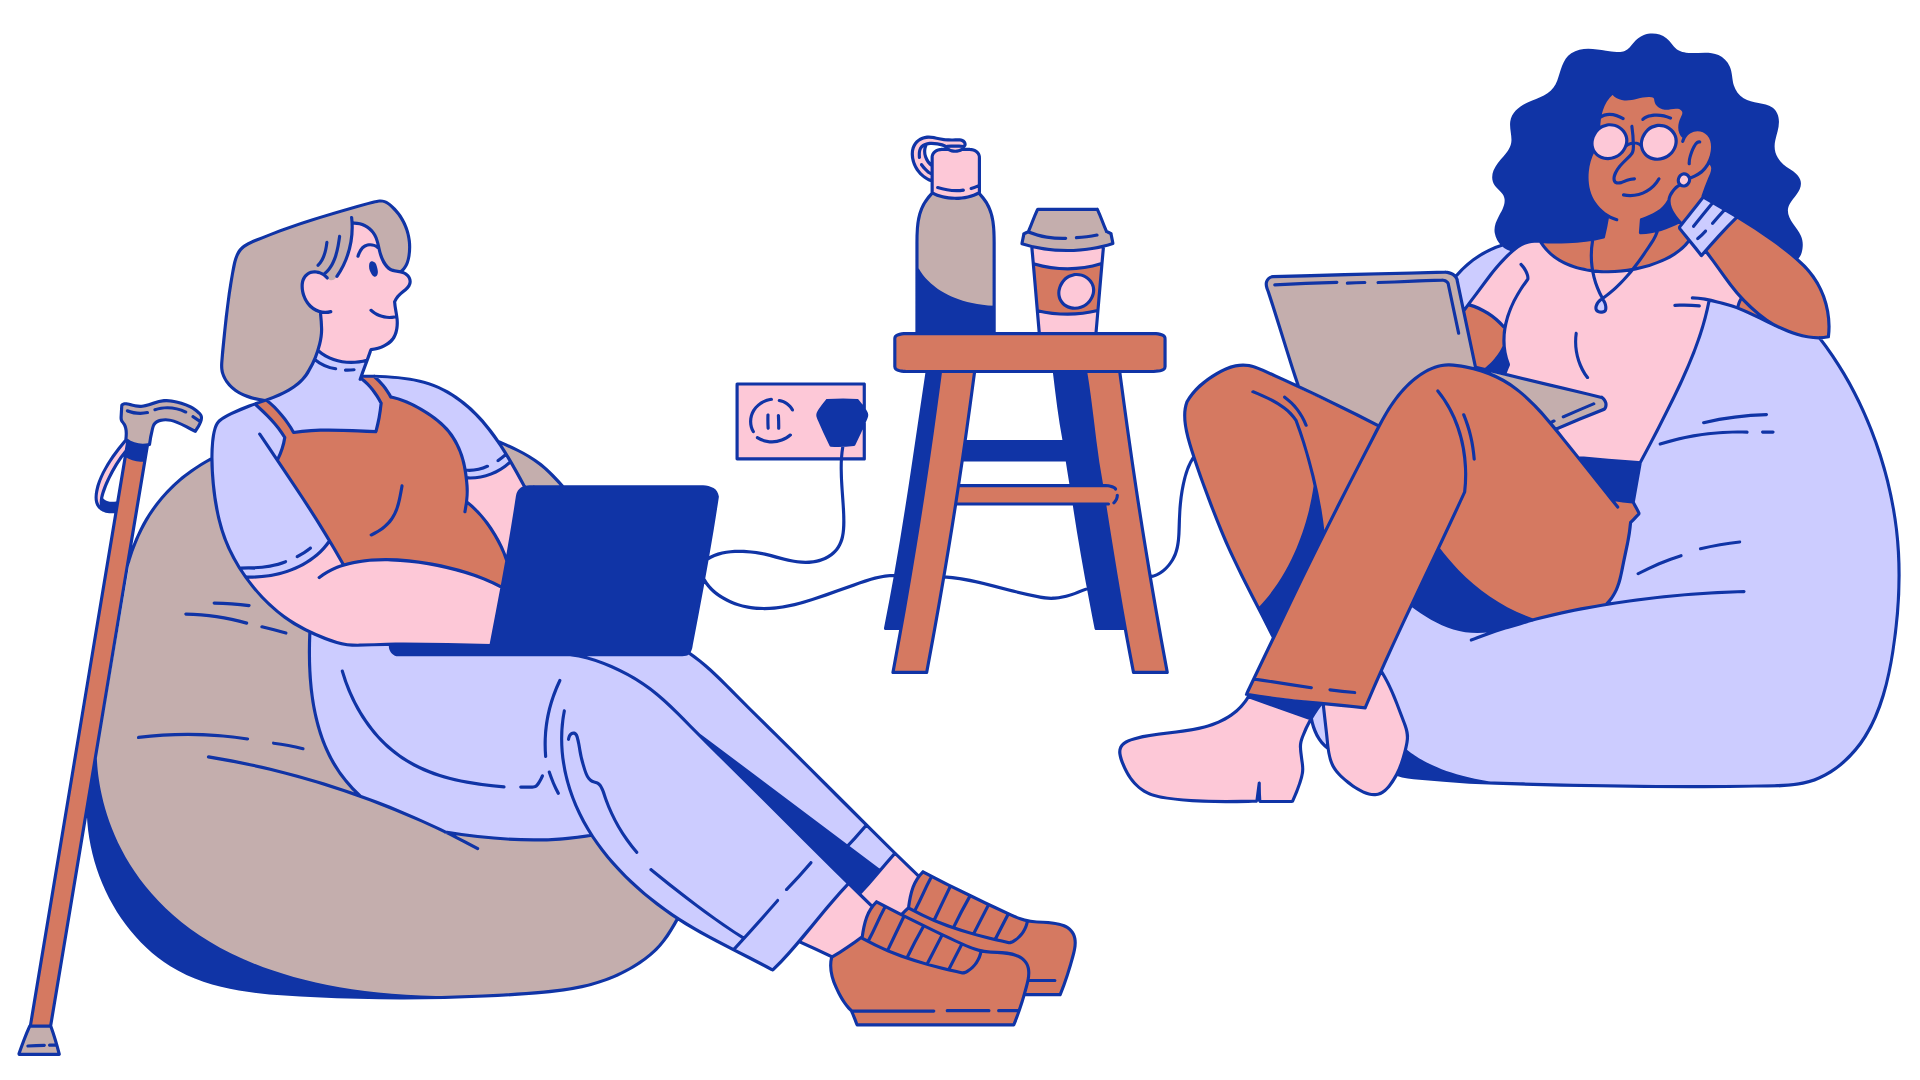
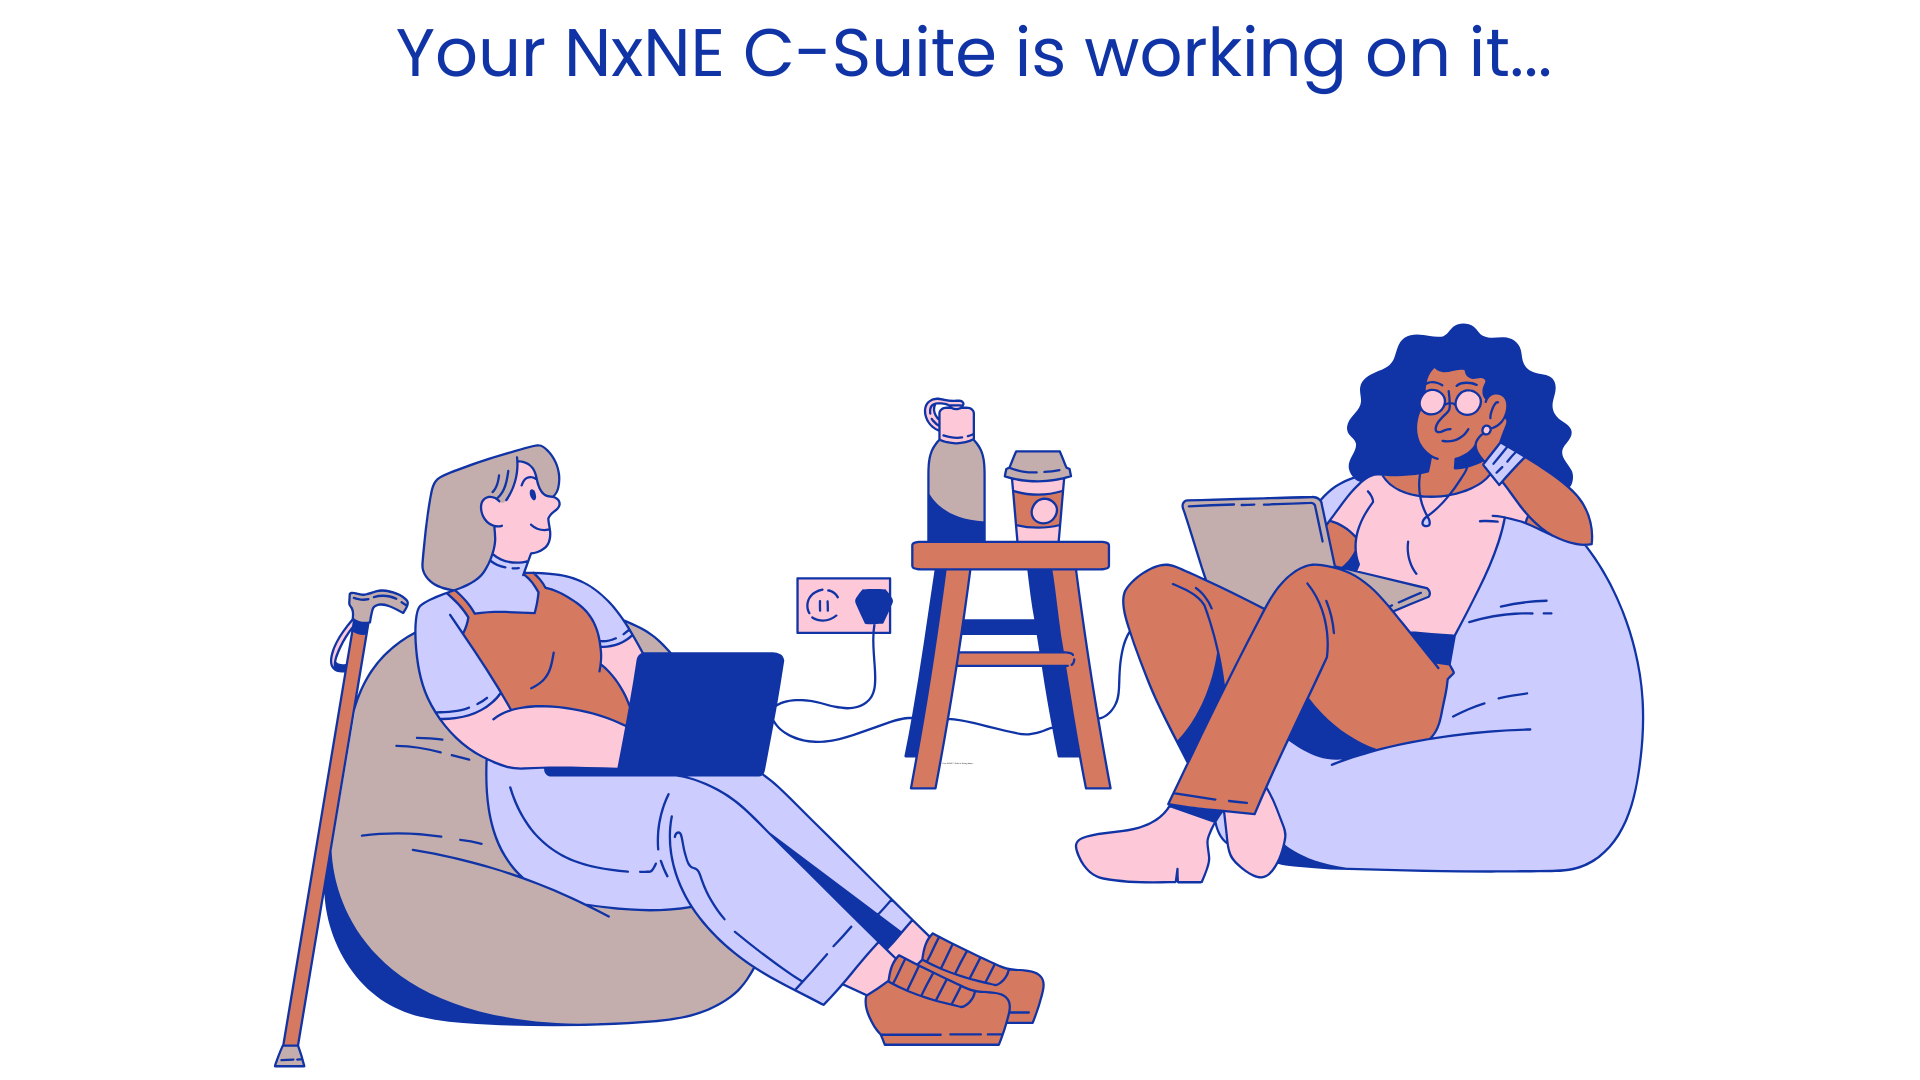
Trying to use a png of text/image for the loading screen of script_generator

diff --git a/templates/script_generator.html b/templates/script_generator.html
@@ -25,7 +25,6 @@
 
         #loading img {
             max-width: 500px;
-            margin-bottom: 20px;
         }
 
         .no-bullets {
@@ -98,7 +97,6 @@
 <div id="bg"></div>
 <div id="loading">
     <img src="{{ url_for('static', filename='assets/LoadingAsset_Creative2.png') }}" alt="Loading...">
-    <span>Your NxNE C-Suite is diving deep...</span>
 </div>
 
 <script src="{{ url_for('static', filename='js/jquery.min.js') }}"></script>
